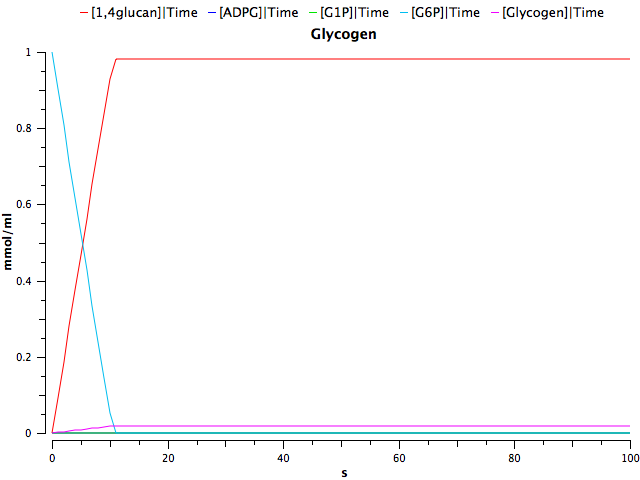
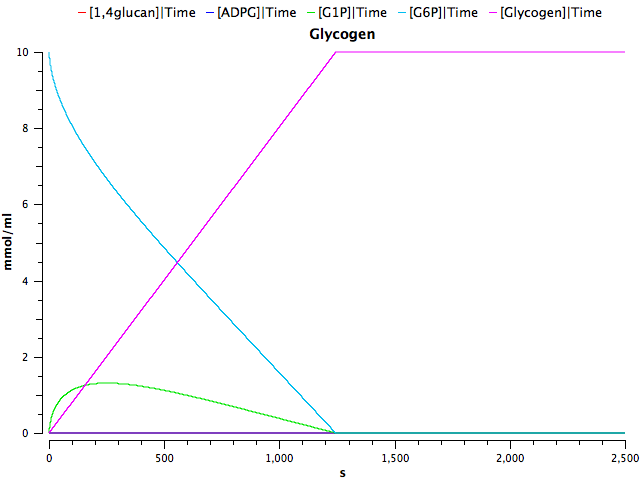
md

diff --git a/kinetics_model.md b/kinetics_model.md
@@ -1,6 +1,6 @@
 #####Assumptions:
 
-We generated a deterministic model taking into consideration the following assumptions.
+We generated a deterministic model taking into consideration the following assumptions:
 
 - All enzyme concentrations are constant and similar. We fixed the enzyme concentrations to 1x10-5 mmol/mL
 
@@ -19,31 +19,23 @@ We generated a deterministic model taking into consideration the following assum
 
 Enzyme| Km (mmol/mL)| Reference
 -----|-----|----:
-Phosphoglucomutase(G1P)| 0.00029| [1](http://www.sciencedirect.com/science/article/pii/S1096717699901453)
-Phosphoglucomutase(G6P)|5.6e-06| [1](http://www.sciencedirect.com/science/article/pii/S1096717699901453)
-GlgC(ADPG)| 4e-05|
-GlgC(ATP) |0.00032|
-GlgA|3.5e-05
-GlgB(Glucan1-4)| 1e-05|
-GlgB(Glycogen)| 2e-07|
-GlgX (Glycogen)| 1e-06|
+Phosphoglucomutase(G1P)| 2.9x10-4| [1](http://www.sciencedirect.com/science/article/pii/S1096717699901453)
+Phosphoglucomutase(G6P)|5.6x10-6| [1](http://www.sciencedirect.com/science/article/pii/S1096717699901453)
+GlgC(ADPG)| 4x10-5|[2](http://www.ncbi.nlm.nih.gov/pubmed/21741429)
+GlgC(ATP) |3.2x10-4|[2](http://www.ncbi.nlm.nih.gov/pubmed/21741429)
+GlgA|3.5x10-5|[3](http://www.ncbi.nlm.nih.gov/pubmed/2288)
+GlgB(Glucan1-4)| 1.42x10-5| [4](http://www.ncbi.nlm.nih.gov/pubmed/11368019)
+GlgX (Glycogen)| 1x10-6| -not found-
 
 
 2 substrate irreversible reaction: Vmax*substrateA*substrateB/(KmB*substrateA + kmA*substrateB + substrateA*substrateB)
 
-The first reactions of the pathway are highly efficient, as all the initial glucose-6-P converted to glucose-1-P and ADP-glucose is used in the production of glucan. 
+All the reactions of the pathway are highly efficient, as all the initial glucose-6-P converted to glucose-1-P and ADP-glucose is used in the production of glycogen. Part of the glucose-1-P is recovered due to the GlgX debranching activity.
 
-After running our model for 10000 seconds and collecting the data in intevals of  10 seconds, we saw that glycogen branching is not a favored process. Under basal conditions, the reversability of GlgB and the action of GlgX favored the linear structure of glycogen (glucan-1-4). If we start with a concentration of 5 mmol/mL of Glucose-6-P (G6P), after the time course the majority of this glucose has been used to produce linear glucan and only a small part of the glucose is generating branched  glycogen:
-
-![](concentrations_after_1.png)
+We run our model for 2500 seconds and collect the data in intevals of 0.05 seconds starting with a concentration of 10 mmol/mL of Glucose-6-P (G6P). After the time course, the majority of the starting glucose has been used to produce glycogen and only a small part of the glucose stays unbranched.
 
 
 ![](basal_model.png)
-
-
-Then, if we change GlgB Kms for the glucan from 1e-5 mmol/mL to 1e-6 mmol/mL, we can see how the glycogen production is increased:
-
-![](change_glgB.png)
 
 
 
